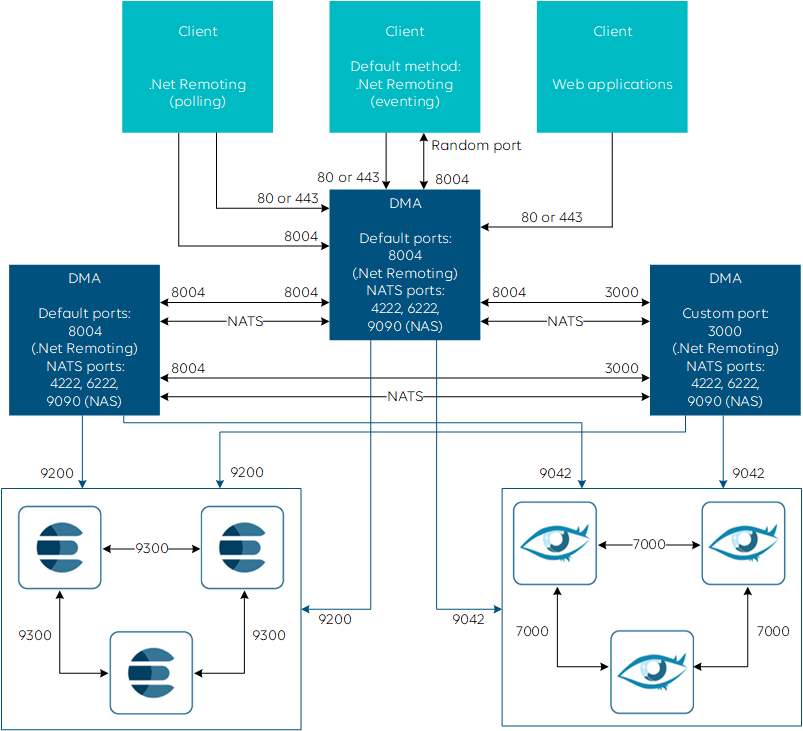
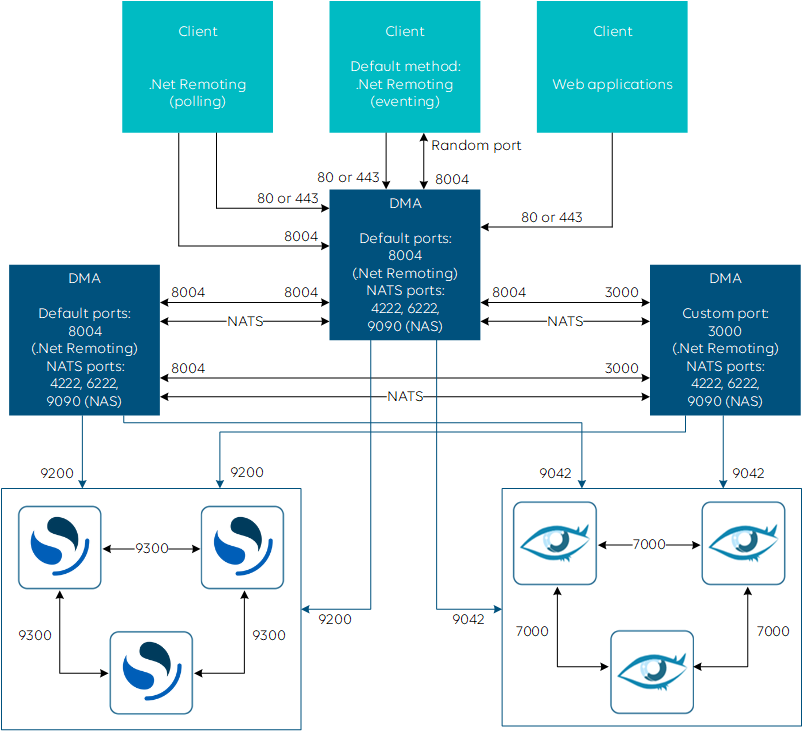
IP communication within a DMS

Changed region(s): [[0.2491, 0.6922, 0.3425, 0.7825], [0.1557, 0.8728, 0.2491, 0.9631], [0.0311, 0.6922, 0.1245, 0.7825]]

diff --git a/user-guide/Advanced_Functionality/DataMiner_Agents/Configuring_a_DMA/Configuring_the_IP_network_ports.md b/user-guide/Advanced_Functionality/DataMiner_Agents/Configuring_a_DMA/Configuring_the_IP_network_ports.md
@@ -43,7 +43,7 @@ A DataMiner System makes extensive use of TCP/IP communication. Below, you find 
 
 ## Graphical representation of IP communication within a DMS
 
-The diagrams below show how communication within a DMS could be set up. The blue lines indicate the communication towards the databases (in this case an Elasticsearch and Cassandra cluster of three nodes each).
+The diagrams below show how communication within a DMS could be set up. The blue lines indicate the communication towards the databases (in this case an OpenSearch and Cassandra cluster of three nodes each).
 
 Using gRPC (recommended from DataMiner 10.3.6/10.3.0 [CU3] onwards):
 
